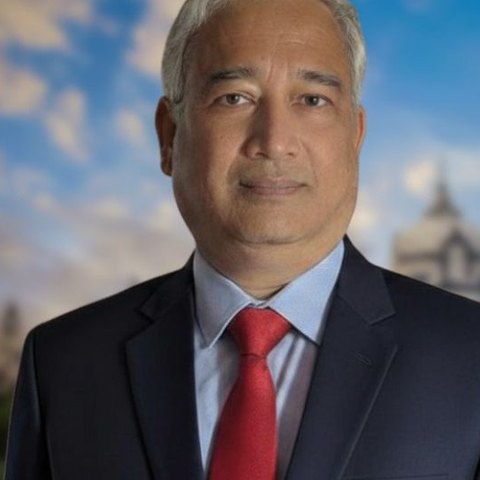
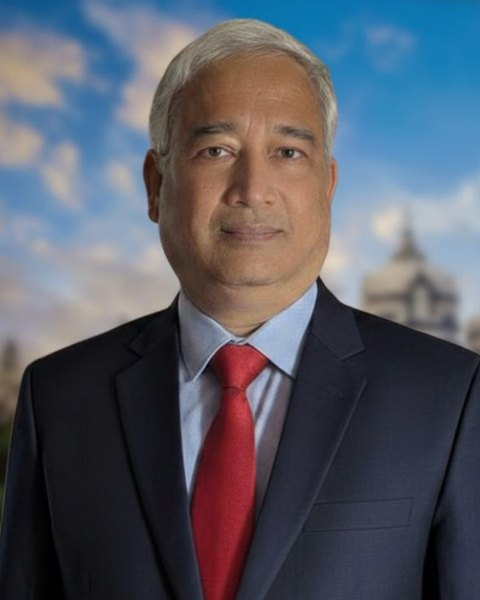
Show founder portraits uncropped at 4:5
Re-crop both portraits from the original slides with headroom and show
them at 4:5 on the founders page and the home page cards.

diff --git a/founders/index.html b/founders/index.html
@@ -24,7 +24,7 @@ permalink: /founders/
 <section class="scroll-mt-20 border-t border-line py-16 lg:py-24" id="{{ f.slug }}">
   <div class="{{ wrap }} grid gap-10 md:grid-cols-[minmax(0,340px)_minmax(0,1fr)] md:gap-16">
     <div class="md:sticky md:top-28 md:self-start">
-      <img class="aspect-square w-full max-w-80 rounded-2xl bg-surface-2 object-cover md:max-w-none" src="{{ f.photo | relative_url }}" alt="Portrait of {{ f.name }}" width="480" height="480"{% unless forloop.first %} loading="lazy"{% endunless %}>
+      <img class="aspect-[4/5] w-full max-w-80 rounded-2xl bg-surface-2 object-cover object-top md:max-w-none" src="{{ f.photo | relative_url }}" alt="Portrait of {{ f.name }}" width="480" height="600"{% unless forloop.first %} loading="lazy"{% endunless %}>
       <p class="label mt-6 text-clay">{{ f.role }}</p>
       <h2 class="mt-3 text-[clamp(28px,3vw,36px)] leading-tight">{{ f.name }}</h2>
       <a class="mt-3 inline-flex items-center gap-2 text-[15px] text-muted no-underline hover:text-clay" href="mailto:{{ f.email }}">{% include icon.html name="mail" %} {{ f.email }}</a>

diff --git a/index.html b/index.html
@@ -51,7 +51,7 @@ layout: default
     <div class="mt-12 grid gap-4 md:grid-cols-2">
       {%- for f in site.data.founders %}
       <a class="group grid grid-cols-[96px_minmax(0,1fr)] gap-5 rounded-2xl border border-line bg-surface p-5 no-underline transition hover:border-line-strong sm:grid-cols-[140px_minmax(0,1fr)] sm:gap-7 sm:p-7" href="{{ '/founders/' | relative_url }}#{{ f.slug }}">
-        <img class="aspect-square w-full rounded-xl bg-surface-2 object-cover" src="{{ f.photo | relative_url }}" alt="Portrait of {{ f.name }}" width="480" height="480" loading="lazy">
+        <img class="aspect-[4/5] w-full rounded-xl bg-surface-2 object-cover object-top" src="{{ f.photo | relative_url }}" alt="Portrait of {{ f.name }}" width="480" height="600" loading="lazy">
         <div class="flex flex-col">
           <p class="label text-clay">{{ f.role }}</p>
           <h3 class="mt-2 text-[clamp(22px,2.2vw,28px)] leading-tight">{{ f.name }}</h3>
